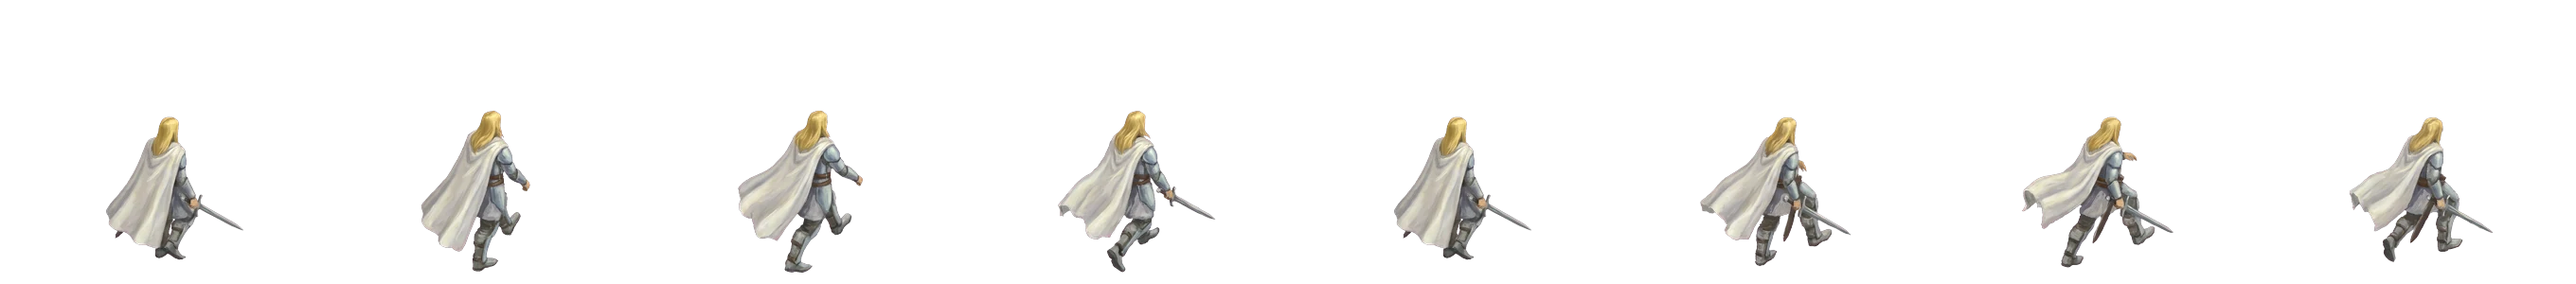
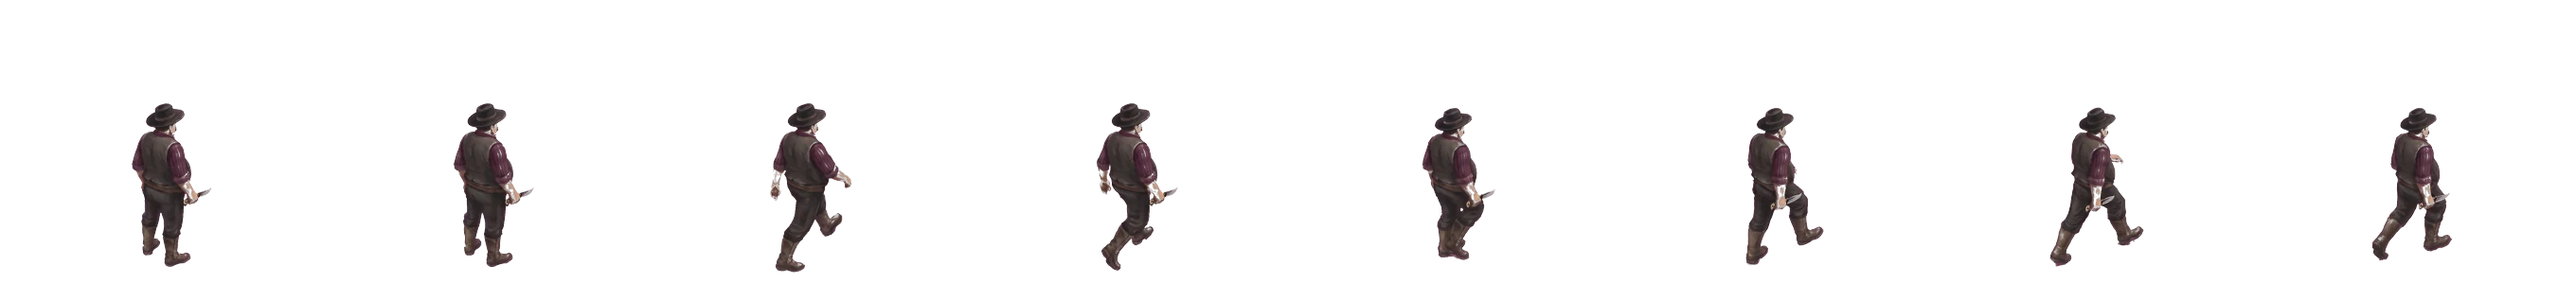
Replace the hero with a heavy man in a hat and a knife
New painted sheets for walking, attacking and idling, with knife or
axe. The knife keeps the sword's slot and is labelled Knife.

diff --git a/client/src/main.ts b/client/src/main.ts
@@ -29,7 +29,7 @@ const BOLT_REPEAT_MS = 560;
 const PICK_RADIUS = 58;
 const DEPTH_SCALE = 0.72;
 const ITEM_NAMES: Record<string, string> = {
-  sword: "Sword", axe: "Battle axe", potion_mana: "Mana potion", coins: "Gold coins",
+  sword: "Knife", axe: "Battle axe", potion_mana: "Mana potion", coins: "Gold coins",
   ring: "Gold ring", helmet: "Helmet", pouch: "Leather pouch",
 };
 const hud = document.getElementById("hud")!;

diff --git a/tools/build_art.py b/tools/build_art.py
@@ -3,7 +3,7 @@
 Usage: build_art.py SOURCE_DIR REPO_DIR
 Sources: city/ground.png, city/objects.png, items.png, walk_front, walk_back,
 slash_front and slash_back (each also with an axe_ prefix), and the walk
-cycles pw_front, pw_back, pa_front and pa_back.
+cycles pw_front, pw_back, pa_front and pa_back. The current hero's sheets live in h3/.
 """
 import json
 import math
@@ -123,25 +123,48 @@ def walk_sheet(name, out, scale, replace_first):
     sheet.save(f"{ART}/{out}.webp", quality=88, method=6)
 
 
+def single_sheet(frame, out, scale):
+    """One-cell sheet (idle pose) from a single frame."""
+    rgb, mask, center = frame[:3]
+    ys = np.where(mask > 0.5)[0]
+    pixels = np.dstack([rgb, mask * 255]).astype(np.uint8)
+    sprite = Image.fromarray(pixels, "RGBA")
+    sprite = sprite.resize((round(sprite.width * scale), round(sprite.height * scale)), Image.LANCZOS)
+    sheet = Image.new("RGBA", (CELL_W, CELL_H), (0, 0, 0, 0))
+    bottom = (ys.max() + 1) * scale
+    sheet.paste(sprite, (round(CELL_W / 2 - center * scale), round(FEET_Y - bottom)), sprite)
+    sheet.save(f"{ART}/{out}.webp", quality=88, method=6)
+
+
+def slash_sheet(name, out, standing_height):
+    """Scaled so the recovering pose, with the weapon low, matches the walking height."""
+    frames = frames_of(name, 5)
+    recover = frames[3][1]
+    ys = np.where(recover > 0.5)[0]
+    scale = standing_height / (ys.max() - ys.min())
+    hero_sheet(name, out, 5, scale)
+
+
 def hero():
-    standing = grid_frames("pw_front.png")[0]
-    ys = np.where(standing[1] > 0.5)[0]
+    """The hero with the hat: walks over motion capture, attacks, idles, with knife or axe."""
+    folder = "h3/"
+    walk = grid_frames(f"{folder}pw_front.png")[0]
+    ys = np.where(walk[1] > 0.5)[0]
     walk_scale = HERO_HEIGHT / (ys.max() - ys.min())
 
-    for walk_prefix, prefix, out in (("pw", "", "hero"), ("pa", "axe_", "hero_axe")):
-        walk_sheet(f"{walk_prefix}_front.png", f"{out}_walk_front", walk_scale, False)
-        walk_sheet(f"{walk_prefix}_back.png", f"{out}_walk_back", walk_scale, True)
+    for walk_prefix, slash_prefix, out in (("pw", "", "hero"), ("pa", "axe_", "hero_axe")):
+        walk_sheet(f"{folder}{walk_prefix}_front.png", f"{out}_walk_front", walk_scale, False)
+        walk_sheet(f"{folder}{walk_prefix}_back.png", f"{out}_walk_back", walk_scale, False)
+        slash_sheet(f"{folder}{slash_prefix}slash_front.png", f"{out}_slash_front", HERO_HEIGHT)
+        # The painted back-facing attacks turned to face the camera, so both directions use the front one.
+        slash_sheet(f"{folder}{slash_prefix}slash_front.png", f"{out}_slash_back", HERO_HEIGHT)
 
-        scale = HERO_HEIGHT / frames_of(f"{prefix}walk_front.png", 6)[0][1].shape[0]
-
-        for name, sheet, count in (
-            ("walk_front", "idle_front", 1),
-            ("walk_back", "idle_back", 1),
-            ("slash_front", "slash_front", 5),
-            ("slash_back", "slash_back", 5),
-        ):
-            source = 6 if count == 1 else count
-            hero_sheet(f"{prefix}{name}.png", f"{out}_{sheet}", source, scale, count)
+    for side in ("front", "back"):
+        reference = frames_of(f"{folder}ref_{side}.png", 1)[0]
+        ys = np.where(reference[1] > 0.5)[0]
+        single_sheet(reference, f"hero_idle_{side}", HERO_HEIGHT / (ys.max() - ys.min()))
+        axe = grid_frames(f"{folder}pa_{side}.png")[0]
+        single_sheet(axe, f"hero_axe_idle_{side}", walk_scale)
 
 
 # Item centres on a 1376 by 386 preview, and the height each one is drawn at.
@@ -249,6 +272,20 @@ def woman():
     sprite.resize((round(sprite.width * scale), 170), Image.LANCZOS).save(f"{ART}/npc_woman.webp", quality=90, method=6)
 
 
+def knife_icon():
+    rgb = load("h3/knife.png")
+    pink = np.minimum(rgb[..., 0], rgb[..., 2]) - rgb[..., 1]
+    labels, found = ndimage.label(ndimage.binary_opening(pink < 60))
+    sizes = ndimage.sum(np.ones_like(labels), labels, range(1, found + 1))
+    label = int(np.argmax(sizes)) + 1
+    area = ndimage.find_objects(labels)[label - 1]
+    alpha = ndimage.gaussian_filter((labels[area] == label).astype(np.float32), 0.8)
+    alpha *= np.clip(1 - (pink[area] - 30) / 40, 0, 1)
+    icon = Image.fromarray(np.dstack([rgb[area], alpha * 255]).astype(np.uint8), "RGBA")
+    icon.thumbnail((128, 128), Image.LANCZOS)
+    icon.save(f"{ART}/icon_sword.webp", quality=88, method=6)
+
+
 def ground():
     """Mirrors the street corner into a grid, so the sidewalks form city blocks."""
     source = Image.open(f"{SOURCE}/city/ground.png").convert("RGB")
@@ -337,6 +374,7 @@ mansion()
 woman()
 hero()
 items()
+knife_icon()
 world_width, height, tile_w, tile_h = ground()
 spawn, placed = place(sprites, world_width, height, tile_w, tile_h)
 
